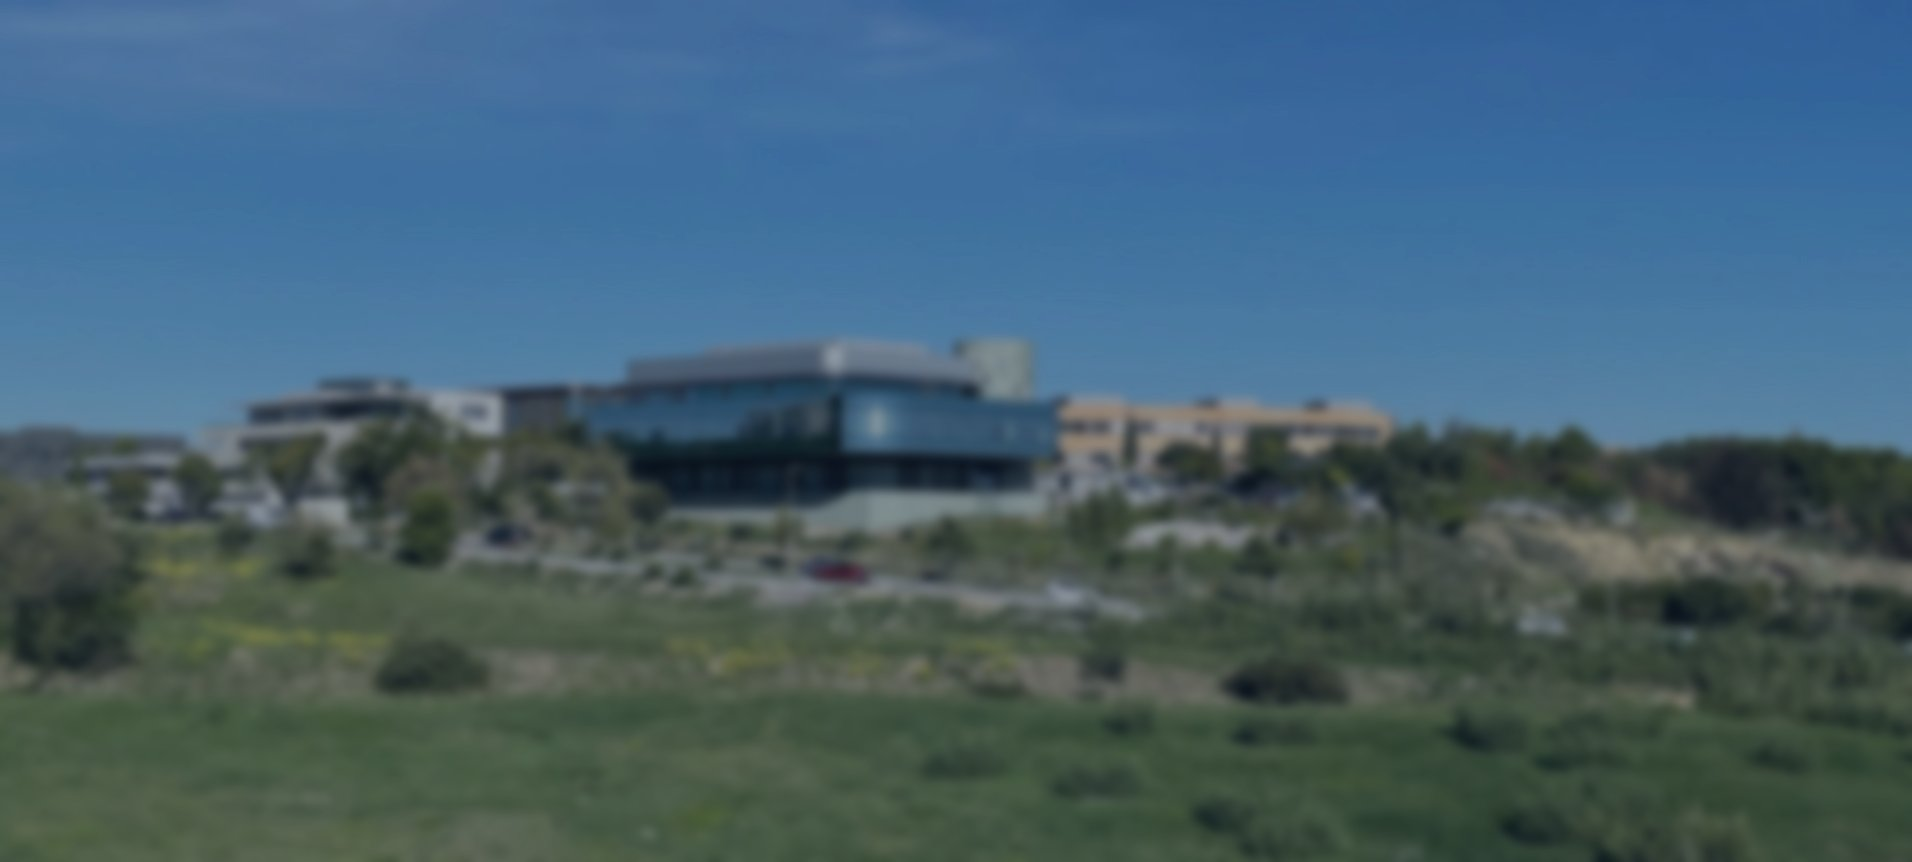
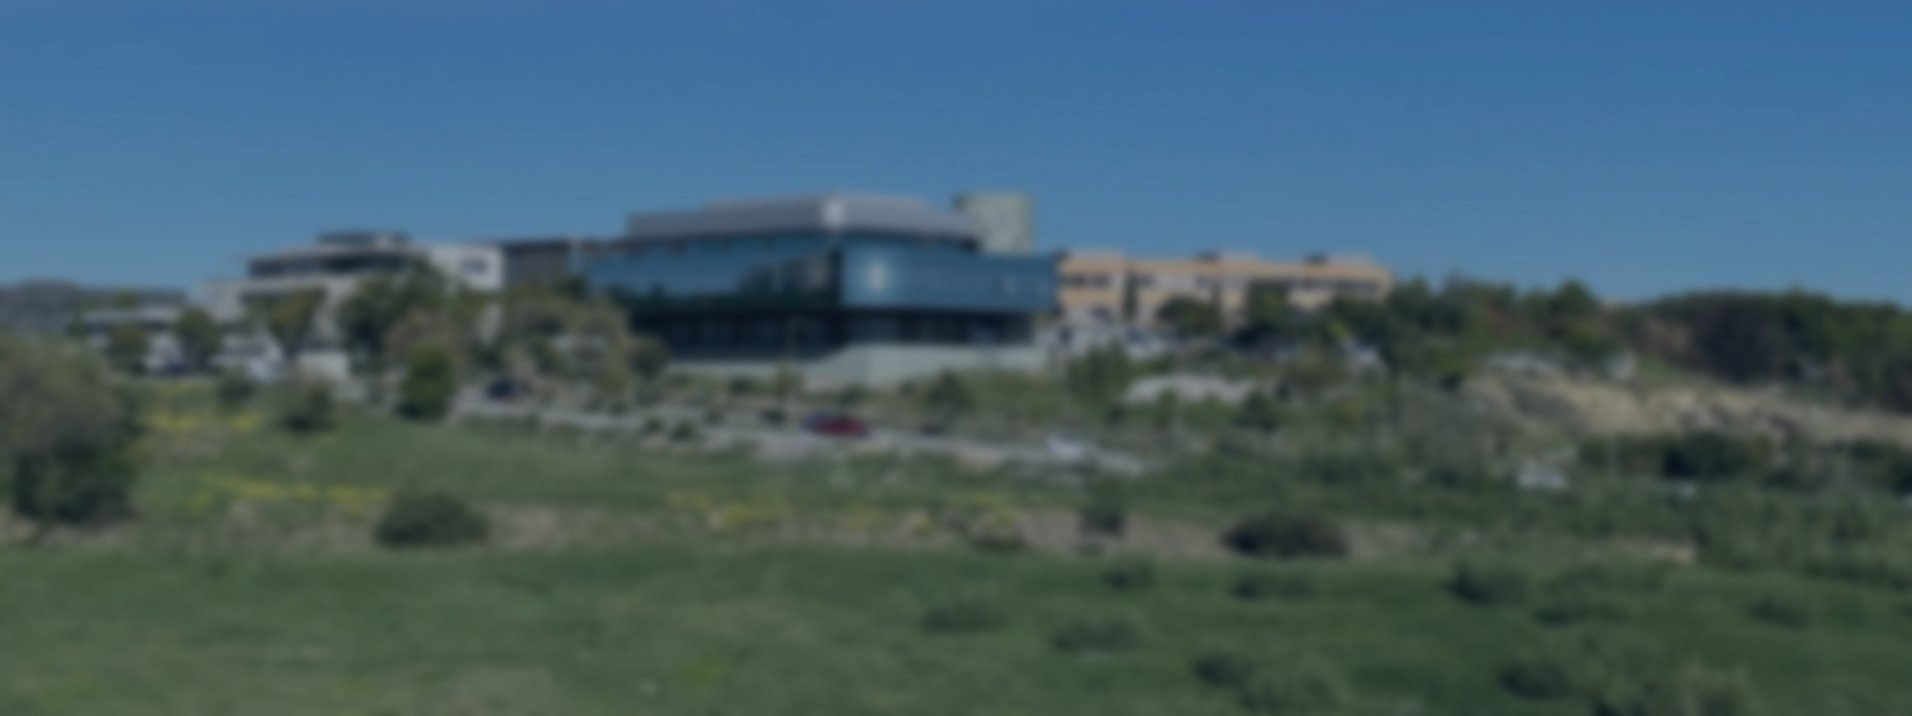
update about page

diff --git a/src/app/products/product/product.component.ts b/src/app/products/product/product.component.ts
@@ -5,8 +5,11 @@ import { ParallaxDirective } from '../../directives/parallax.directive';
 import { TranslateModule, TranslateService } from '@ngx-translate/core';
 import { ArianeComponent, Path } from '../../ariane/ariane.component';
 import { FontAwesomeModule } from '@fortawesome/angular-fontawesome';
-import { faBoxOpen, faUpRightFromSquare, faDna } from '@fortawesome/free-solid-svg-icons';
+import { faBoxOpen, faUpRightFromSquare, faDna, faPaperPlane } from '@fortawesome/free-solid-svg-icons';
 import { AppService } from '../../services/app.service';
+import { ModalComponent } from '../../modal/modal.component';
+import { FormBuilder, FormGroup, FormsModule, ReactiveFormsModule, Validators } from '@angular/forms';
+import { CommonModule } from '@angular/common';
 
 export interface Product {
   id: string
@@ -18,17 +21,21 @@ export interface Product {
   technology: string[]
   content: any[]
   card?: string
+  disabled?: boolean
 }
 
 @Component({
   selector: 'app-product',
   standalone: true,
   imports: [
-    ParallaxDirective,
     TranslateModule,
     ArianeComponent,
     RouterModule,
     FontAwesomeModule,
+    ModalComponent,
+    CommonModule,
+    FormsModule,
+    ReactiveFormsModule,
   ],
   templateUrl: './product.component.html',
   styleUrl: './product.component.scss'
@@ -46,13 +53,28 @@ export class ProductComponent implements OnInit {
 
   faDna = faDna;
 
+  faPaperPlane = faPaperPlane;
+
+  contactForm: FormGroup;
+
+  isClient = false;
+
   constructor(
     private productService: ProductService,
     private route: ActivatedRoute,
     private router: Router,
     private translate: TranslateService,
     private appService: AppService,
-  ) {}
+    private fb: FormBuilder,
+  ) {
+    this.contactForm = this.fb.group({
+      lastname: ['', Validators.required],
+      firstname: ['', Validators.required],
+      email: ['', [Validators.required, Validators.email]],
+      message: ['', Validators.required],
+      subject: [undefined, Validators.required],
+    })
+  }
 
   ngOnInit(): void {
     this.appService.initScrollReveal();
@@ -88,6 +110,10 @@ export class ProductComponent implements OnInit {
         { name: this.product.title, link: this.product.id },
       ];
     }
+  }
+
+  isFieldInvalid(test: string): boolean {
+    return false;
   }
 
   goBack(): void {

diff --git a/src/app/home/home.component.html b/src/app/home/home.component.html
@@ -151,7 +151,7 @@
 <div class="reveal">
   <div class="container mt-60">
     <div class="
-      bg-white rounded-xl shadow-sm px-5 pt-5 w-full mx-auto pb-[400px]
+      bg-white rounded-xl shadow-sm px-5 pt-5 w-full mx-auto
       lg:px-10 lg:pt-0
       xl:w-8/12
     ">
@@ -161,13 +161,16 @@
         "
         [innerHTML]="'sections.about.title' | translate">
       </h2>
-      <p class="text-xl lg:text-2xl p-light pt-5 lg:pt-0">
-        <b>AFYIA Diagnostics</b> dolor sit amet consectetur. Imperdiet aliquet sit et etiam felis mi viverra. Orci tortor malesuada eget bibendum bibendum bibendum diam lorem.
+      <p class="text-xl p-light pt-5 lg:pt-0">
+        {{ 'sections.about.description' | translate }}
       </p>
-      <div class="flex justify-center my-10">
+      <div class="flex justify-center mt-10">
         <button class="btn btn-lg bg-primary-dark" routerLink="/about">{{ 'sections.about.view_more' | translate }}</button>
       </div>
-      <div class="scroll-container absolute left-0">
+      <div class="image-container translate-y-10">
+        <img class="w-full" src="assets/img/buildings_background_sm.jpg" alt="AFYIA batiment Grabels" title="AFYIA batiment Grabels">
+      </div>
+      <!-- <div class="scroll-container absolute left-0">
         <div
           #scroller
           class="scroller h-[500px]"
@@ -182,7 +185,7 @@
           <img [src]="imagePath" [alt]="'carousel_img_' + index" title="Image carousel">
         }
         <div class="min-w-[300px]"></div>
-      </div>
+      </div> -->
     </div>
   </div>
 </div>

diff --git a/src/app/about/about.component.html b/src/app/about/about.component.html
@@ -40,7 +40,9 @@
 
 <div class="bg-secondary-dark px-10 pt-10 lg:px-20 lg:pt-32 mt-28 lg:mt-40">
   <div class="container">
-    <h2 class="text-4xl lg:text-7xl text-white font-extrabold text-center reveal" [innerHTML]="'about.timeline.title' | translate"></h2>
+    <h2 class="text-4xl lg:text-7xl text-white font-extrabold text-center reveal">
+      <span class="text-cyan-300">AFYIA</span> {{ 'about.timeline.title' | translate }}
+    </h2>
     <p class="p-10 mb-10 text-center text-white" [innerHTML]="'about.timeline.text' | translate"></p>
   </div>
   <div class="timeline flex flex-col gap-20 relative pt-20 text-white">
@@ -151,7 +153,7 @@
       </div>
       <div class="mt-5 text-center">
         <h3 class="font-extrabold">Jean-Christophe Avarre</h3>
-        <span>Undefined</span>
+        <span>{{ 'about.founders.avarre' | translate }}</span>
       </div>
     </div>
   </div>

diff --git a/src/app/home/home.component.scss b/src/app/home/home.component.scss
@@ -58,31 +58,6 @@
   }
 }
 
-.container-image {
-  overflow: hidden;
-
-  &::before {
-    z-index: -1;
-    content: '';
-    position: absolute;
-    top: 0;
-    left: 0;
-    width: 100%;
-    height: 100%;
-    background: url('../../assets/img/buildings_background_sm.jpg');
-    filter: brightness(0.5) blur(1px) saturate(1.5);
-    background-position: center;
-    background-size: cover;
-    background-repeat: no-repeat;
-    transition: $transition-2;
-    transform: scale(1.1);
-  }
-
-  &:hover::before {
-    transform: scale(1.15);
-  }
-}
-
 .scroll-container {
   z-index: 10;
   width: 100%;
